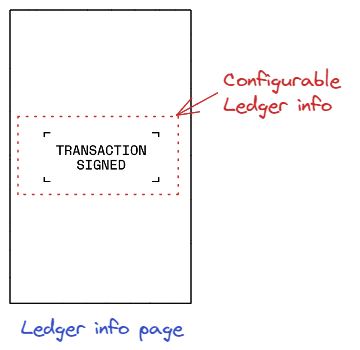
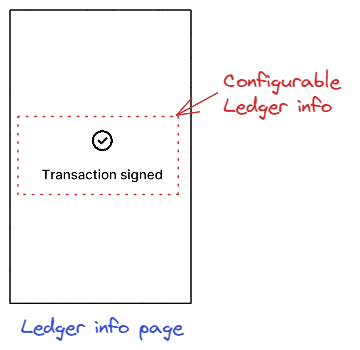
Update NBGL documentation after removal of HM Alpha font

diff --git a/lib_nbgl/src/nbgl_fonts.c b/lib_nbgl/src/nbgl_fonts.c
@@ -120,7 +120,7 @@ const nbgl_font_t *nbgl_getFont(nbgl_font_id_e fontId)
  * @brief Get the coming unicode value on the given UTF-8 string. If the value is a simple ASCII
  * character, is_unicode is set to false.
  *
- * @param txt (in/out) text to get character from. Updated after pop to the next UTF-8 char
+ * @param text (in/out) text to get character from. Updated after pop to the next UTF-8 char
  * @param textLen (in/out) remaining length in given text (before '\n' or '\0')
  * @param is_unicode (out) set to true if it's a real unicode (not ASCII)
  * @return unicode (or ascii-7) value of the found character
@@ -289,6 +289,7 @@ uint16_t nbgl_getSingleLineTextWidth(nbgl_font_id_e fontId, const char *text)
  *
  * @param fontId font ID
  * @param text text in UTF8
+ * @param maxLen max number of bytes to parse
  * @return the width in pixels of the text
  */
 uint16_t nbgl_getSingleLineTextWidthInLen(nbgl_font_id_e fontId, const char *text, uint16_t maxLen)
@@ -416,6 +417,7 @@ uint16_t nbgl_getTextLength(const char *text)
  * @param maxWidth maximum width in bytes, if text is greater than that the parsing is escaped
  * @param len (output) consumed bytes in text fitting in maxWidth
  * @param width (output) set to maximum width in pixels in text fitting in maxWidth
+ * @param wrapping if true, lines are split on separators like spaces, \n...
  *
  * @return true if maxWidth is reached, false otherwise
  *
@@ -865,6 +867,7 @@ uint8_t nbgl_getTextNbPagesInWidth(nbgl_font_id_e fontId,
  * @param fontId font ID
  * @param text text to get the height from
  * @param maxWidth maximum width in which the text must fit
+ * @param wrapping if true, lines are split on separators like spaces, \n...
  * @return the height in pixels
  */
 uint16_t nbgl_getTextHeightInWidth(nbgl_font_id_e fontId,

diff --git a/lib_nbgl/src/nbgl_page.c b/lib_nbgl/src/nbgl_page.c
@@ -185,7 +185,7 @@ static void addContent(nbgl_pageContent_t *content, nbgl_layout_t *layout)
  **********************/
 
 /**
- * @brief draw a page with a centered text with LEDGER style
+ * @brief draw a page with a centered text in large case, with a round check icon
  *
  * @param onActionCallback common callback for all actions on this page
  * @param ticker ticker configuration, set to NULL to disable it
@@ -228,10 +228,10 @@ nbgl_page_t *nbgl_pageDrawLedgerInfo(nbgl_layoutTouchCallback_t              onA
 }
 
 /**
- * @brief draw a spinner page with the given parameters. The spinner will "turn" automatically every
- * 800 ms
+ * @brief draw a spinner page with the given parameters. The spinner will "rotate" automatically
+ * every 800 ms
  *
- * @param onActionCallback common callback for all actions on this page
+ * @param onActionCallback common callback for all actions on this page (unused, so set to NULL)
  * @param text text to use under spinner
  * @return the page context (or NULL if error)
  */

diff --git a/lib_nbgl/serialization/test_json_ser_deser.py b/lib_nbgl/serialization/test_json_ser_deser.py
@@ -362,7 +362,7 @@ def test_json_deserialize_text_area():
                 },
                 'text_color': 'BLACK',
                 'text_alignment': 'RIGHT_BOTTOM',
-                'style': 'LEDGER_BORDER',
+                'style': 'NO_STYLE',
                 'font_id': 'BAGL_FONT_INTER_SEMIBOLD_24px',
                 'localized': True,
                 'auto_hide_long_line': True,
@@ -385,7 +385,7 @@ def test_json_deserialize_text_area():
                 ),
                 text_color=NbglColor.BLACK,
                 text_alignment=NbglAlignment.RIGHT_BOTTOM,
-                style=NbglStyle.LEDGER_BORDER,
+                style=NbglStyle.NO_STYLE,
                 font_id=NbglFontId.BAGL_FONT_INTER_SEMIBOLD_24px,
                 localized=True,
                 auto_hide_long_line=True,

diff --git a/lib_nbgl/src/nbgl_touch.c b/lib_nbgl/src/nbgl_touch.c
@@ -245,12 +245,11 @@ uint32_t nbgl_touchGetTouchDuration(nbgl_obj_t *obj)
 }
 
 /**
- * @brief if the given obj contains the coordinates of the given event, parse
- * all its children with the same criterion.
- * If no children or none concerned, check whether this object can process the event or not
+ * @brief parse all the children of the given object, recursively, until an object with the given
+ * touch if is found.
  *
- * @param obj
- * @param event
+ * @param obj parent of the touched object
+ * @param id id of the touched object to find
  * @return the concerned object or NULL if not found
  */
 nbgl_obj_t *nbgl_touchGetObjectFromId(nbgl_obj_t *obj, uint8_t id)

diff --git a/lib_nbgl/serialization/generate_data_test.c b/lib_nbgl/serialization/generate_data_test.c
@@ -88,7 +88,7 @@ void test_draw_nbgl_text_area()
 
                              .textColor        = BLACK,
                              .textAlignment    = BOTTOM_RIGHT,
-                             .style            = LEDGER_BORDER,
+                             .style            = NO_STYLE,
                              .fontId           = BAGL_FONT_INTER_MEDIUM_32px,
                              .localized        = false,
                              .autoHideLongLine = true,

diff --git a/lib_nbgl/serialization/test_bytes_deserialize.py b/lib_nbgl/serialization/test_bytes_deserialize.py
@@ -86,7 +86,7 @@ def test_draw_nbgl_text_area(data_test):
 
                 text_color=NbglColor.BLACK,
                 text_alignment=NbglAlignment.BOTTOM_RIGHT,
-                style=NbglStyle.LEDGER_BORDER,
+                style=NbglStyle.NO_STYLE,
                 font_id=NbglFontId.BAGL_FONT_INTER_MEDIUM_32px,
                 localized=False,
                 auto_hide_long_line=True,

diff --git a/lib_nbgl/include/nbgl_obj.h b/lib_nbgl/include/nbgl_obj.h
@@ -130,7 +130,6 @@ typedef enum {
  */
 typedef enum {
     NO_STYLE,        ///< no border
-    LEDGER_BORDER,   ///< Ledger style border, only for @ref TEXT_AREA
     INVERTED_COLORS  ///< Inverted background and rounded corners, only for @ref TEXT_AREA
 } nbgl_style_t;
 

diff --git a/lib_nbgl/serialization/nbgl_lib.py b/lib_nbgl/serialization/nbgl_lib.py
@@ -104,8 +104,7 @@ class NbglFontId(IntEnum):
 
 class NbglStyle(IntEnum):
     NO_STYLE = 0,
-    LEDGER_BORDER = 1,
-    INVERTED_COLORS = 2
+    INVERTED_COLORS = 1
 
 
 def parse_str(data: bytes) -> str:
